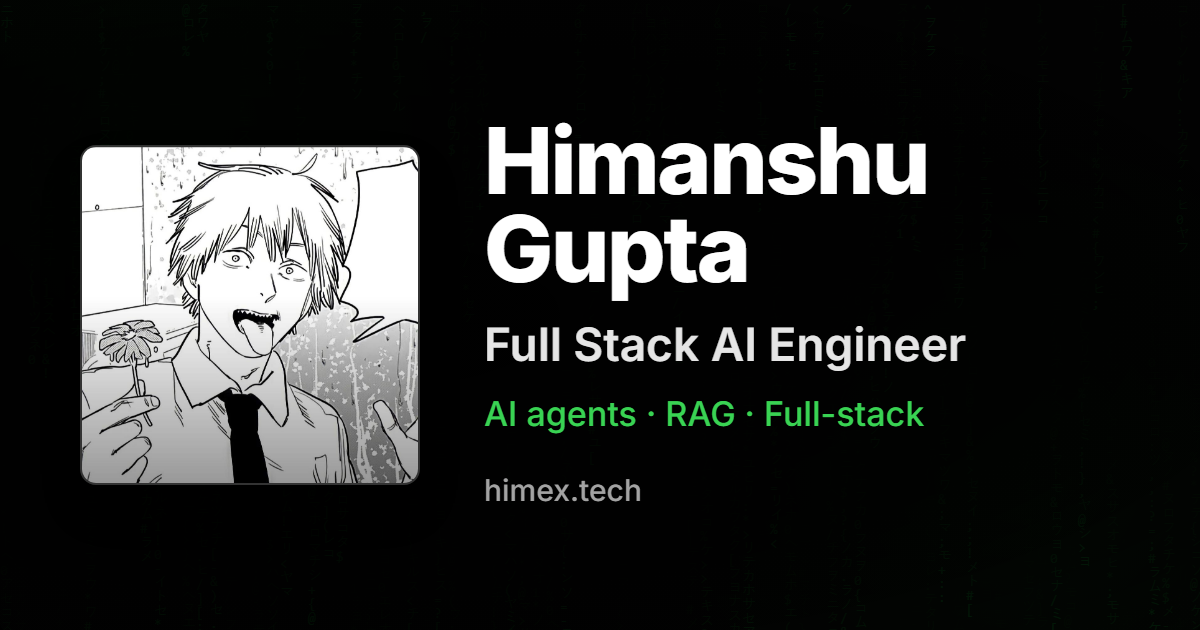
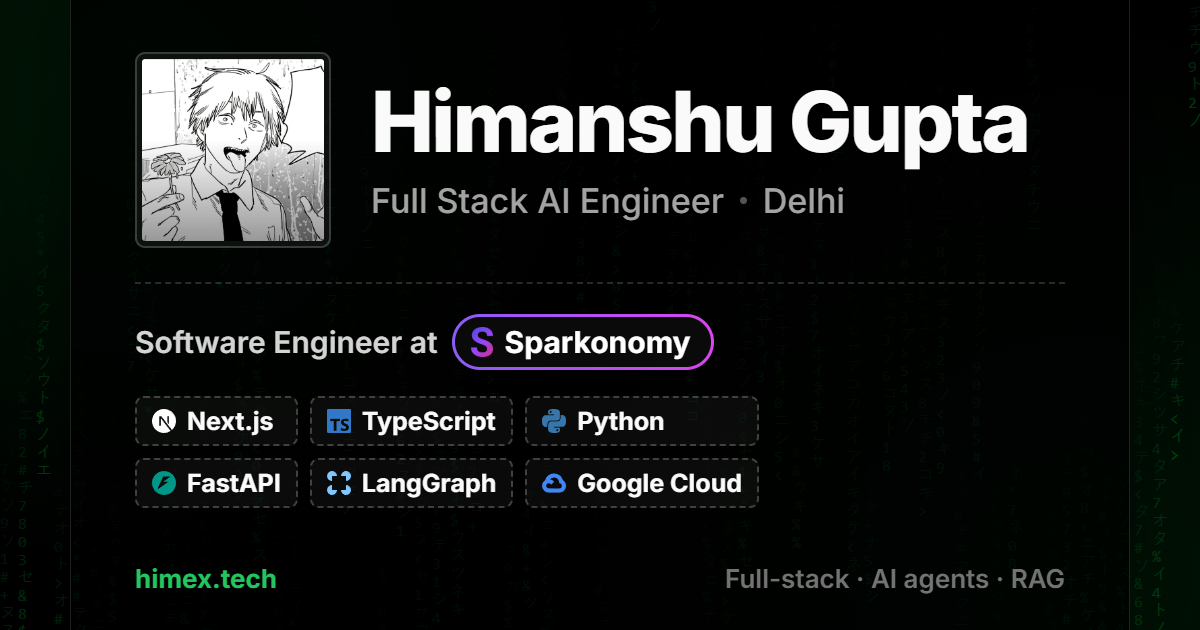
Redesign the share image to match the new layout

diff --git a/app/layout.tsx b/app/layout.tsx
@@ -13,7 +13,8 @@ const siteTitle = `${siteConfig.name} - ${siteConfig.title}`;
 // Static file (not a generated route) so scrapers get a fixed Content-Length;
 // WhatsApp and some others skip chunked, on-the-fly images
 const shareImage = {
-  url: "/og.png",
+  // Bump the version whenever the image changes; social platforms cache by URL
+  url: "/og.png?v=2",
   width: 1200,
   height: 630,
   alt: siteTitle,
